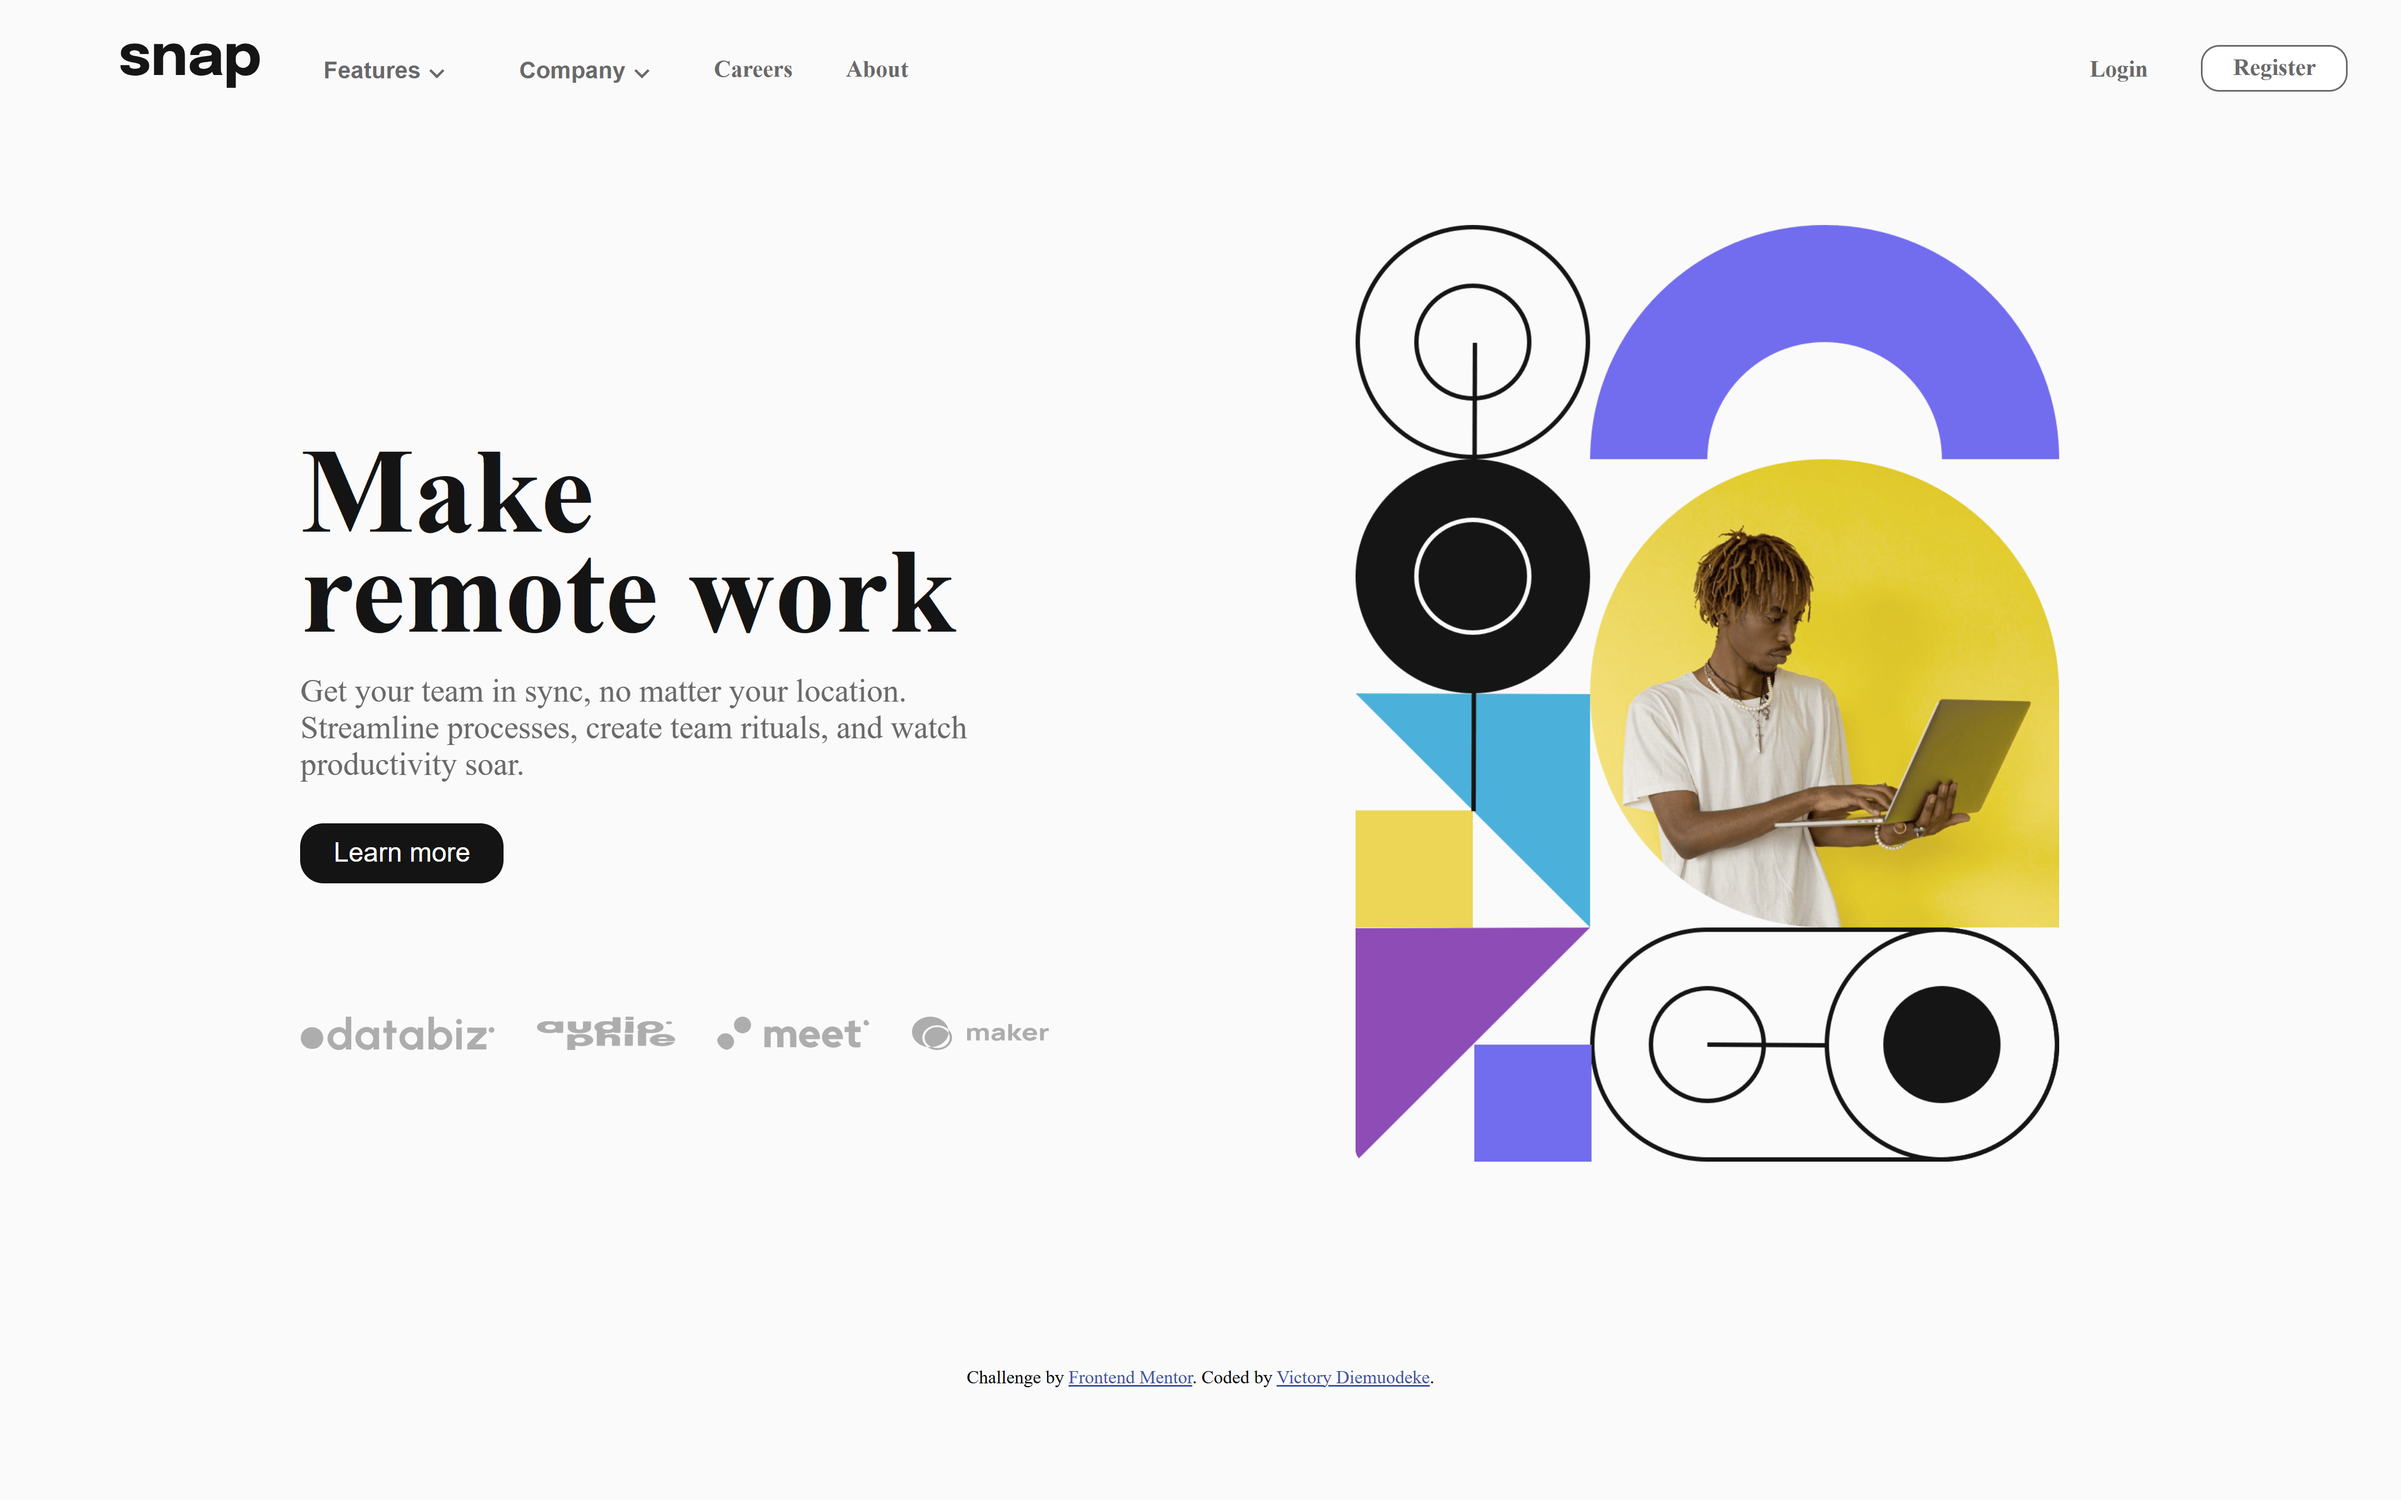
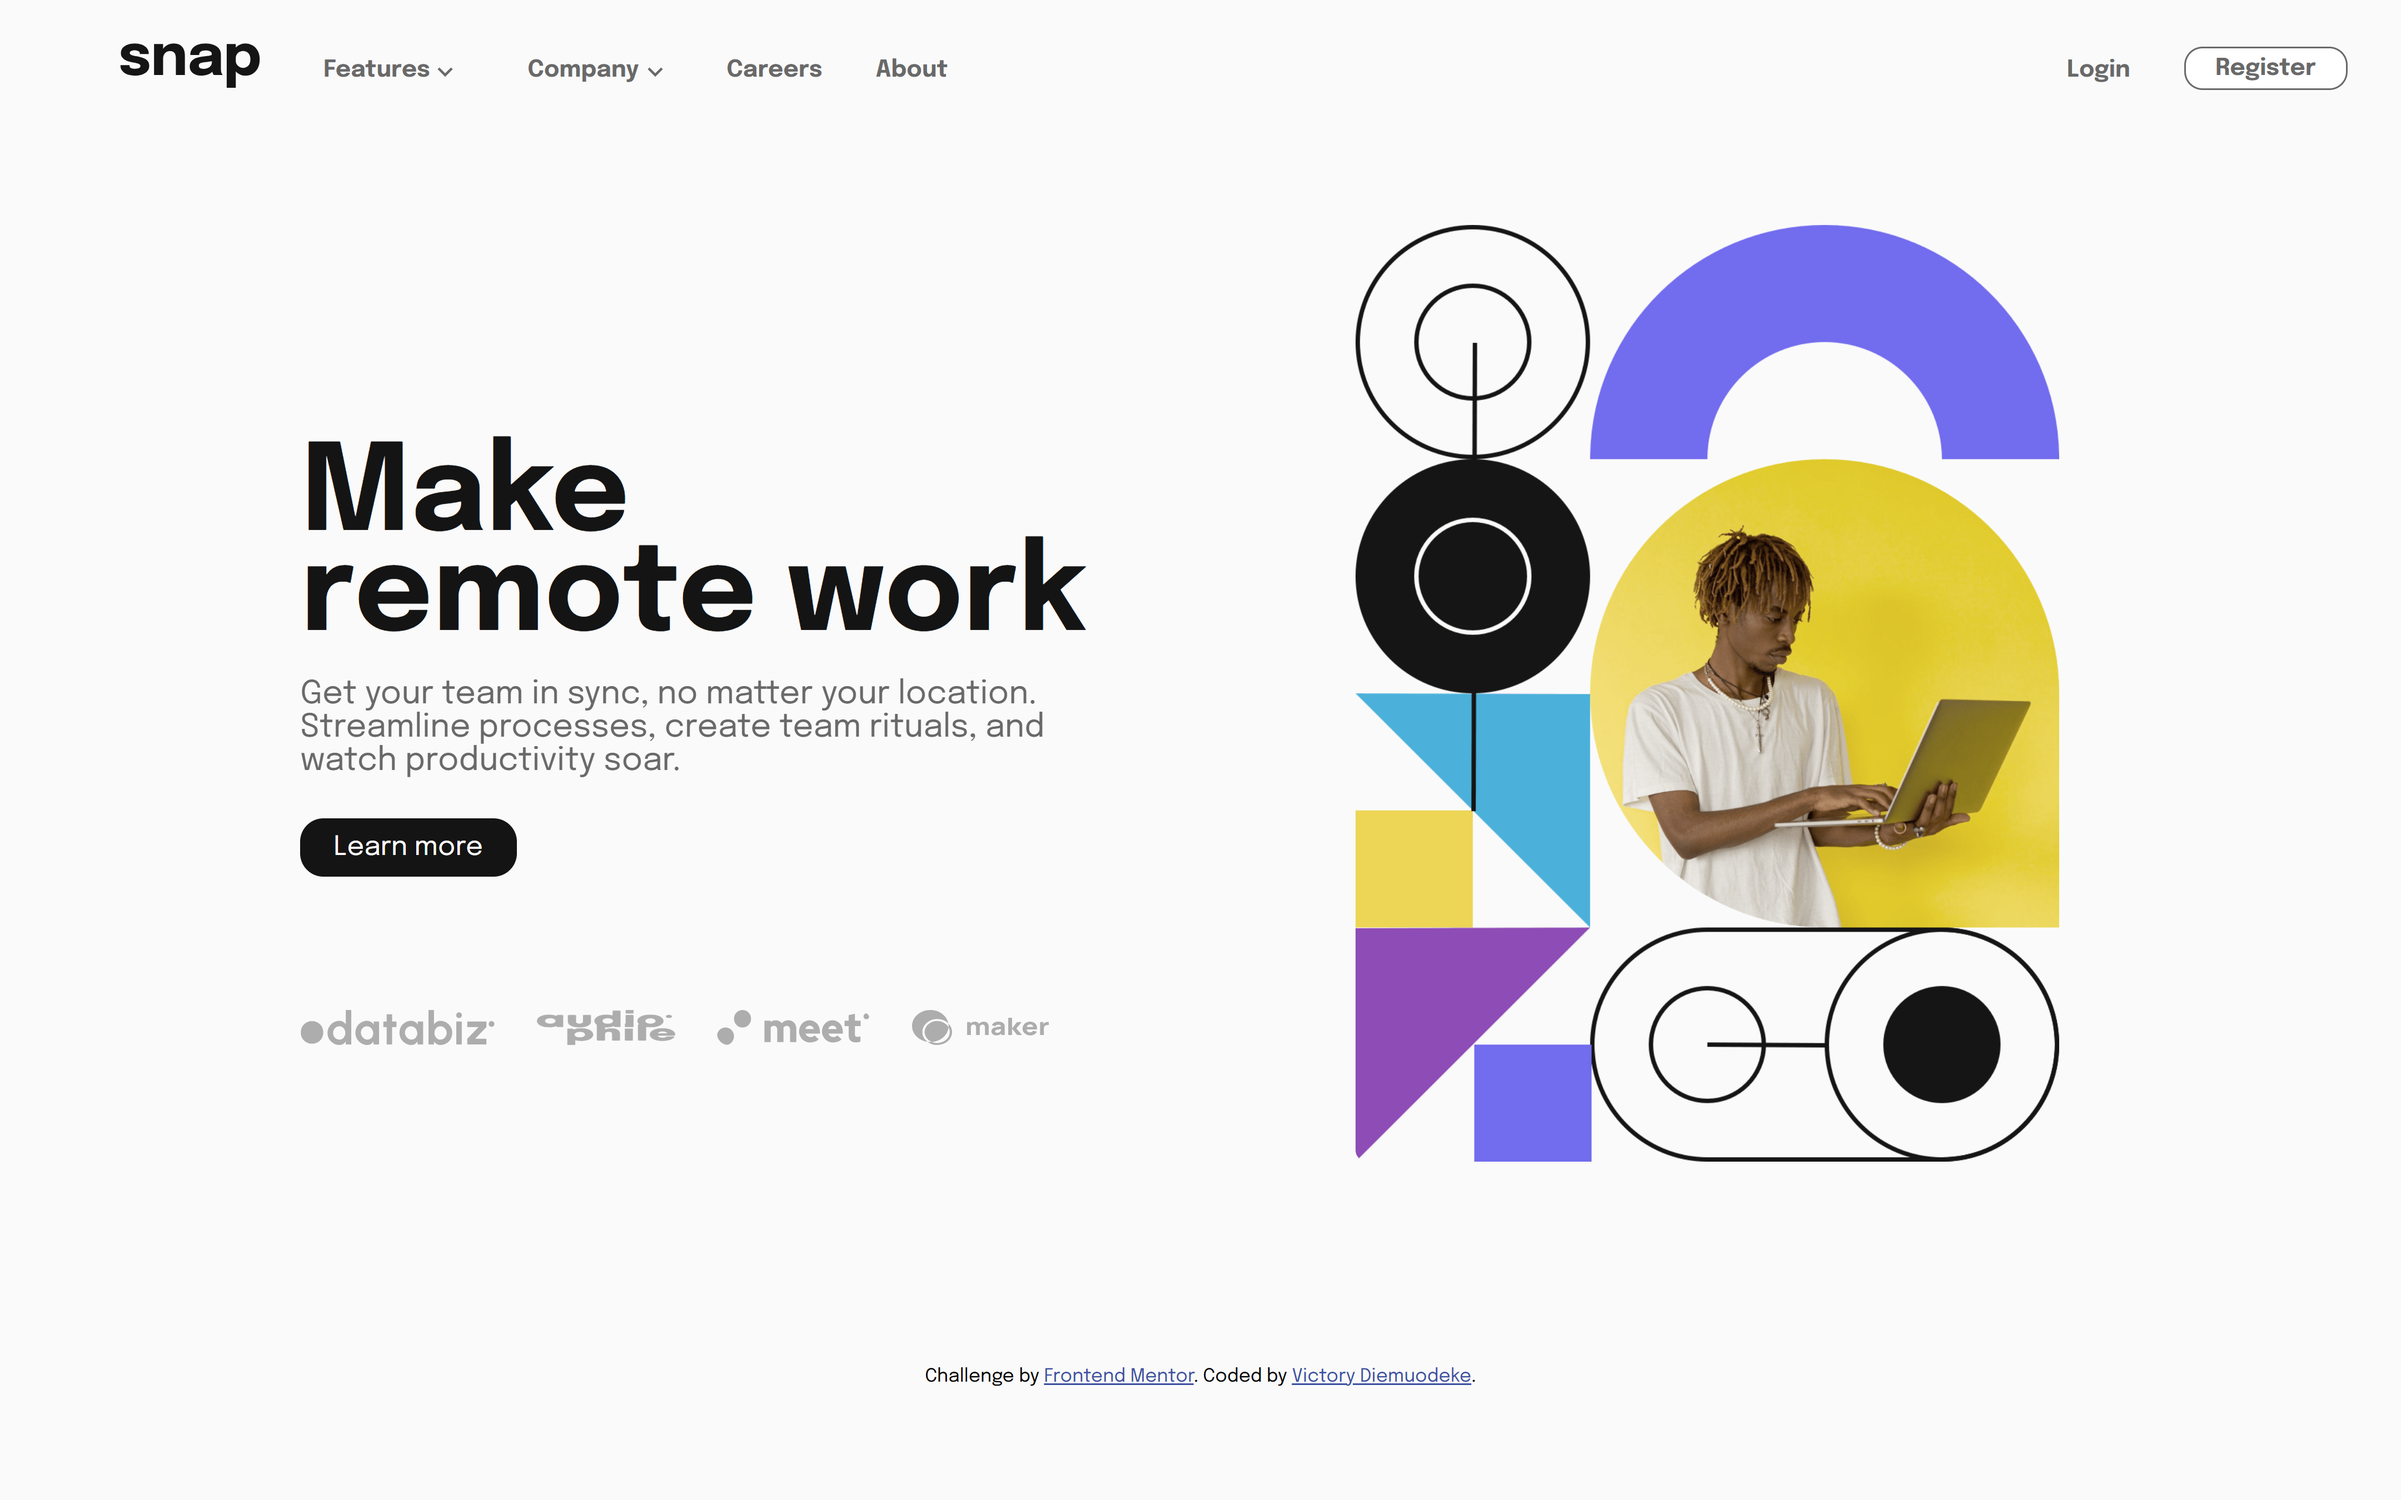
README fixing

diff --git a/index.html b/index.html
@@ -8,6 +8,9 @@
   <link rel="stylesheet" href="style.css">
   <link rel="stylesheet" href="mobile.css">
   <script src="./index.js" defer></script>  
+  <style>
+      @import url('https://fonts.googleapis.com/css2?family=Epilogue:ital,wght@0,100..900;1,100..900&display=swap');
+  </style>
   <title>Frontend Mentor | Intro section with dropdown navigation</title>
 
   <!-- Feel free to remove these styles or customise in your own stylesheet 👍 -->

diff --git a/style.css b/style.css
@@ -1,6 +1,12 @@
 .mobile{
     display: none;
 }
+
+* {
+  font-family: "Epilogue", sans-serif;
+  font-optical-sizing: auto;
+  font-style: normal;
+}
 body {
   margin: 0px auto;
   width: 100%;

diff --git a/README.md b/README.md
@@ -36,7 +36,7 @@ Users should be able to:
 ### Links
 
 - Solution URL: [Add solution URL here]()
-- Live Site URL: [Add live site URL here]()
+- Live Site URL: [https://victoryruro.github.io/intro-section/]()
 
 ## My process
 
